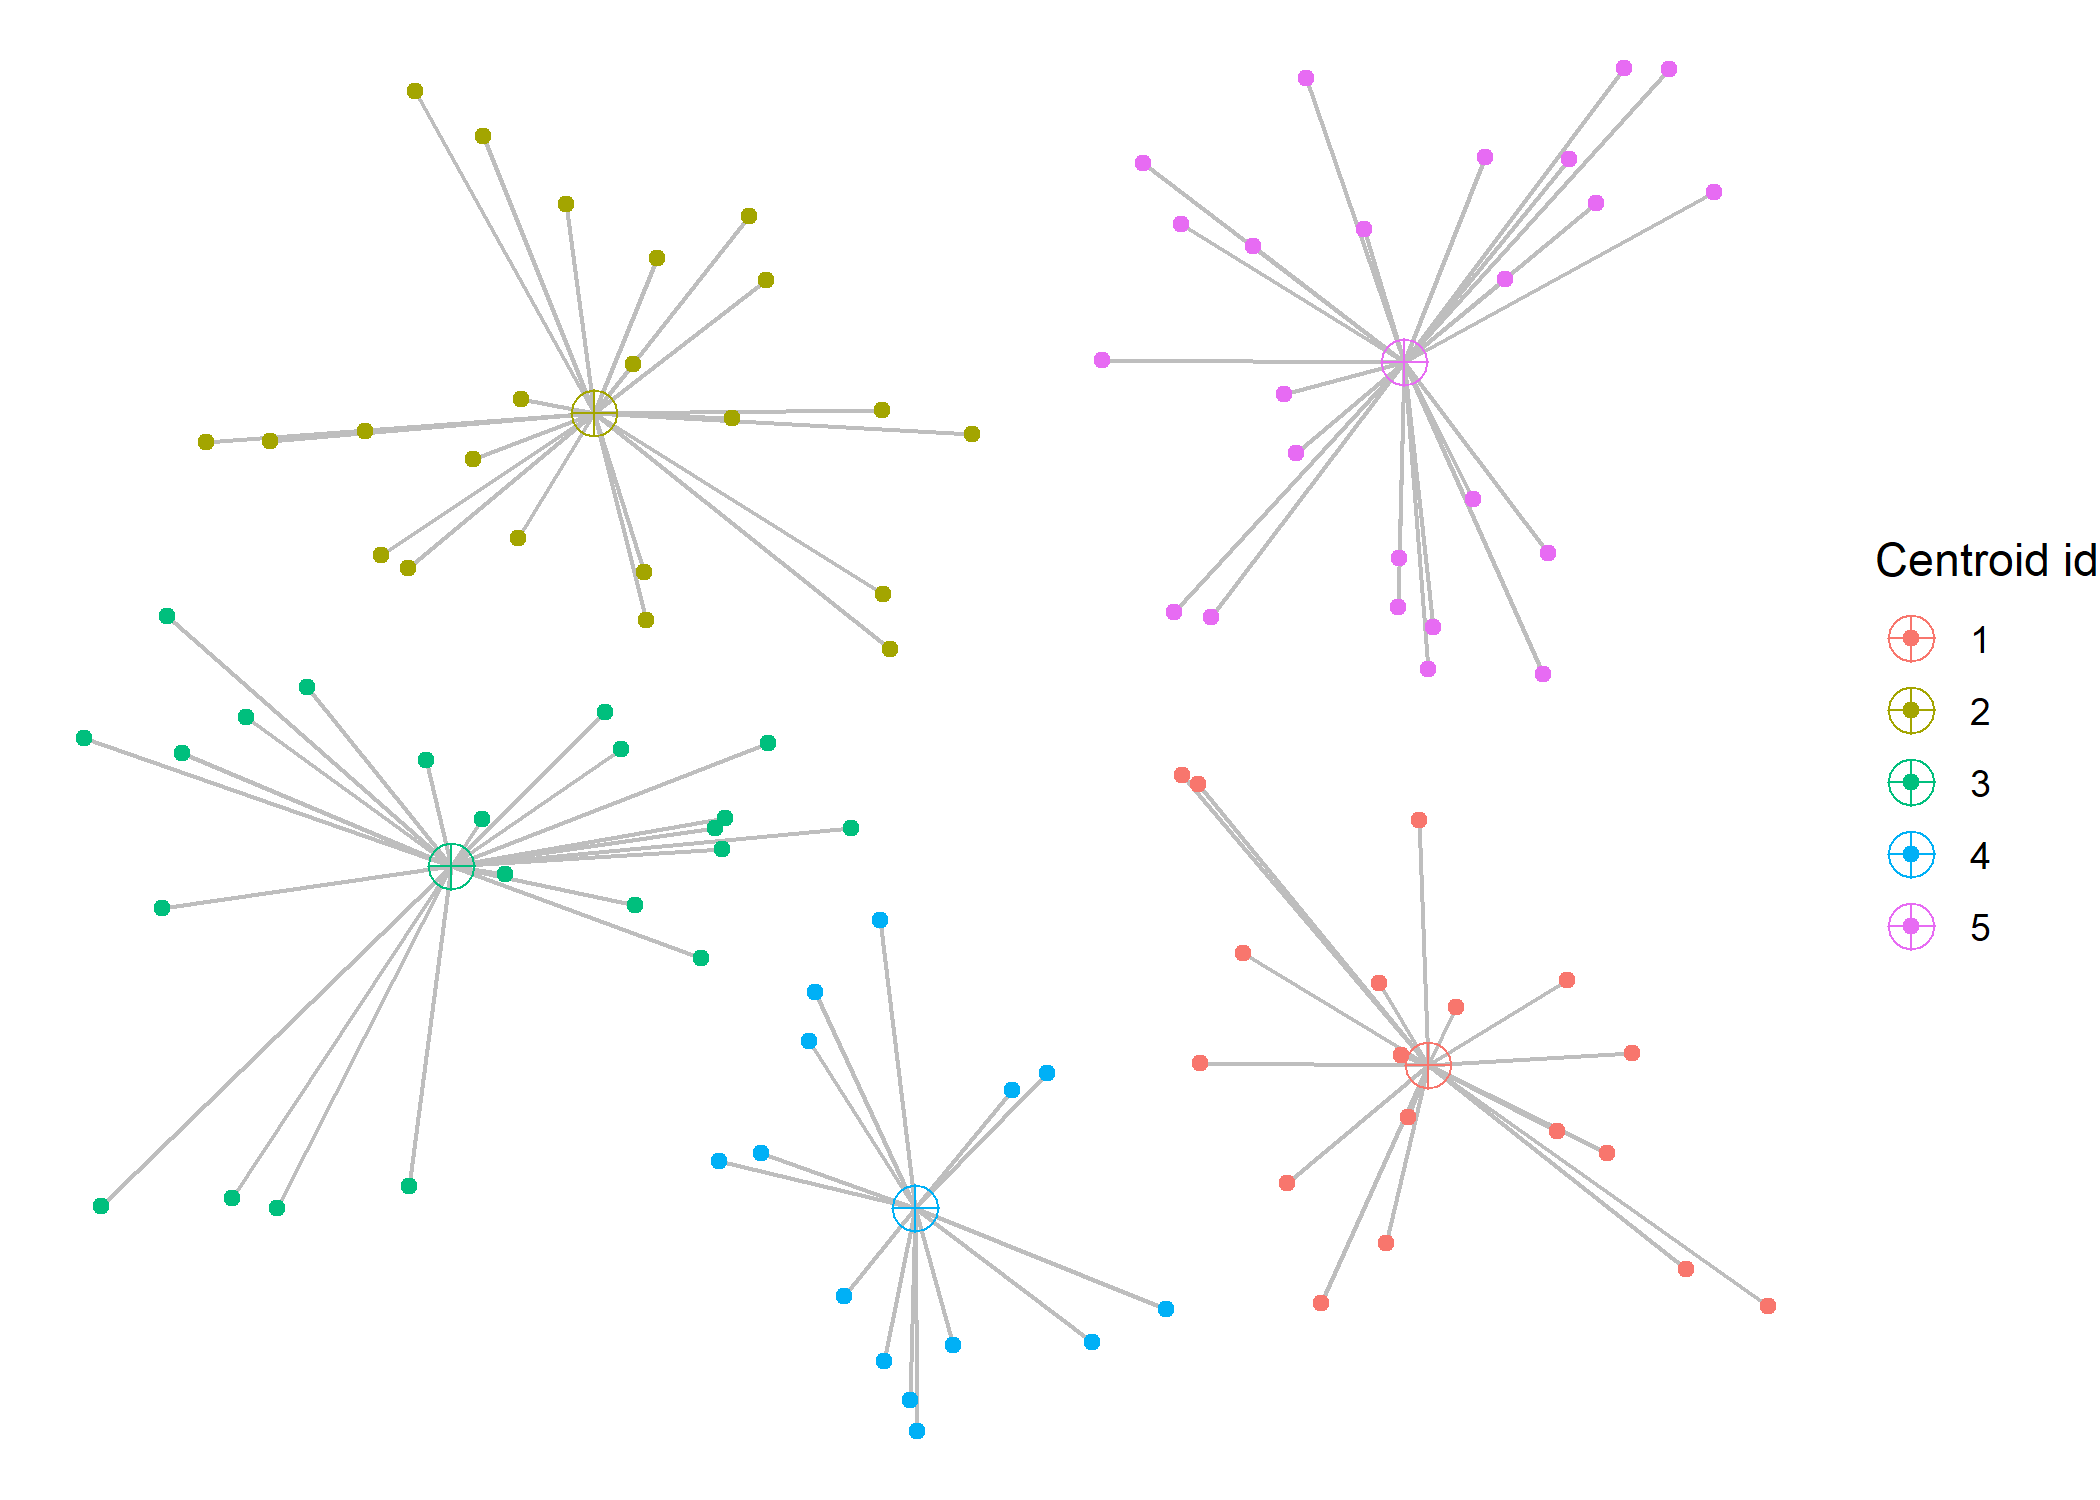
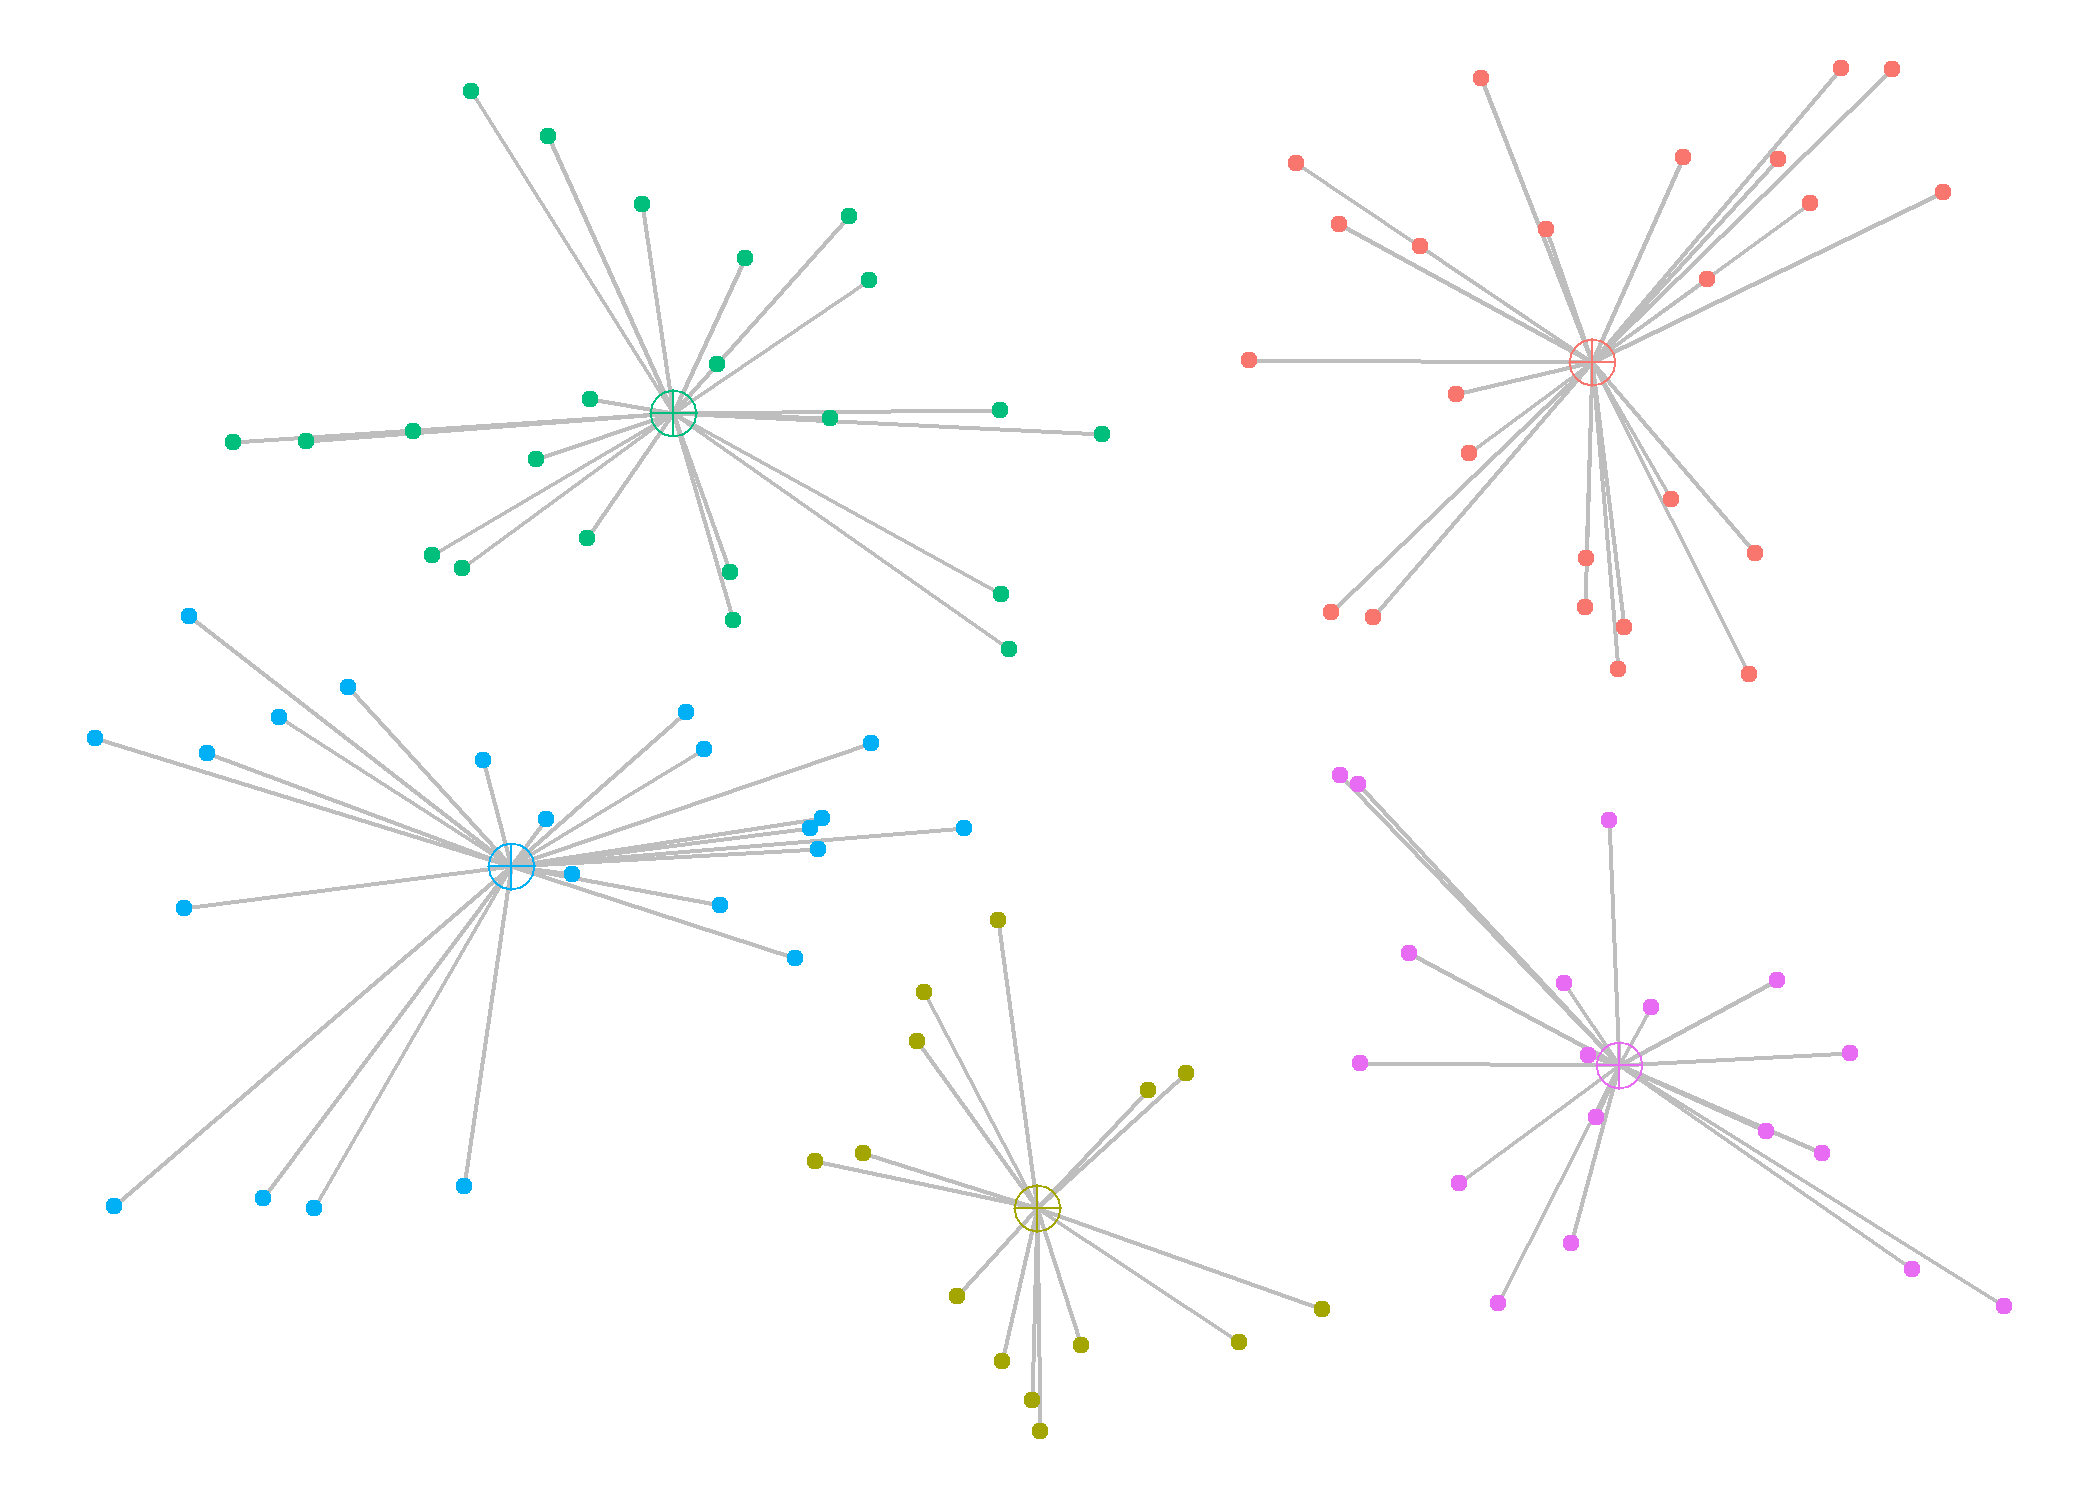
Update readme

diff --git a/README.md b/README.md
@@ -39,7 +39,8 @@ approach:
 
 ``` r
 solution <- solve_kmeans(instance, no_of_centers = 5)
-plot_bases(instance = instance, solution = solution)
+plot_bases(instance = instance, solution = solution) +
+  theme(legend.position = "none")
 ```
 
 <img src="man/figures/README-solution-1.png" width="75%" />
@@ -63,105 +64,7 @@ simulation_result <- simulation(
 ```
 
 ``` r
-simulation_result$metrics[[1]]$response_time_performance
-#>    demand_id_handling response_time
-#> 1                  33            12
-#> 2                  37            17
-#> 3                  49            15
-#> 4                  88            16
-#> 5                  27            18
-#> 6                  32            12
-#> 7                  49            15
-#> 8                  12            11
-#> 9                  21            21
-#> 10                 19            13
-#> 11                 97             7
-#> 12                 73             9
-#> 13                  8            20
-#> 14                 19            12
-#> 15                 28            10
-#> 16                 37            17
-#> 17                 31            20
-#> 18                 28             9
-#> 19                 19            12
-#> 20                  7            16
-#> 21                 78             6
-#> 22                 16            13
-#> 23                 21            20
-#> 24                 55            14
-#> 25                 73             9
-#> 26                 13            10
-#> 27                 16            13
-#> 28                 65            14
-#> 29                 30            12
-#> 30                 55            14
-#> 31                 70             8
-#> 32                 75            16
-#> 33                 77            13
-#> 34                 48            14
-#> 35                 90            12
-#> 36                 46            15
-#> 37                 64             4
-#> 38                100            14
-#> 39                 14            13
-#> 40                 33            11
-#> 41                 89            17
-#> 42                 18            21
-#> 43                  2            13
-#> 44                 94            13
-#> 45                 81            11
-#> 46                 62            12
-#> 47                 87             6
-#> 48                 93            14
-#> 49                 56            22
-#> 50                 13            11
-#> 51                 88            15
-#> 52                 68             6
-#> 53                 35            12
-#> 54                 81            11
-#> 55                 86            19
-#> 56                 73             9
-#> 57                 49            14
-#> 58                 97             6
-#> 59                 21            21
-#> 60                 89            16
-#> 61                 58             8
-#> 62                 61             9
-#> 63                 24            21
-#> 64                 25             3
-#> 65                 39            16
-#> 66                 75            17
-#> 67                 49            14
-#> 68                 45            17
-#> 69                 96            15
-#> 70                 25             3
-#> 71                 47            25
-#> 72                 49            14
-#> 73                 32            11
-#> 74                 11            20
-#> 75                 99             4
-#> 76                 80            17
-#> 77                 27            19
-#> 78                 33            11
-#> 79                 68             5
-#> 80                 95             2
-#> 81                 64             4
-#> 82                  3             9
-#> 83                 94            13
-#> 84                 89            16
-#> 85                 46            15
-#> 86                 22             6
-#> 87                 81            10
-#> 88                 80            17
-#> 89                 68             6
-#> 90                 24            22
-#> 91                 30            13
-#> 92                 43             4
-#> 93                 97             7
-#> 94                 72             6
-#> 95                 49            14
-#> 96                 89            17
-#> 97                 90            13
+# simulation_result$metrics[[1]]$response_time_performance
 ```
 
 ``` r
@@ -171,7 +74,8 @@ simulation_result$metrics[[1]]$distances %>%
              color = paste0(id1,'-',id2))) +
   geom_line() +
   labs(color = "Pair") +
-  theme_bw()
+  theme_bw() +
+  theme(legend.position = "none")
 ```
 
 <img src="man/figures/README-distances-1.png" width="75%" />
